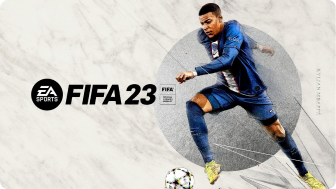
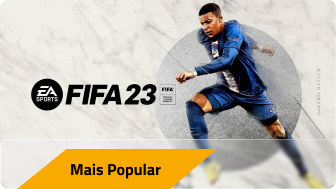
adicionado o media queire no desktop

Changed region(s): [[0.0298, 0.7143, 0.9821, 1.0], [0.9821, 0.7672, 1.0, 0.7937]]

diff --git a/css/style.css b/css/style.css
@@ -2,12 +2,12 @@
 /* Titiluim web */
 @font-face {
     font-family:titiliumweb-black;
-    src: url(../assets/fonts/Titillium_Web\ \(2\)/Titillium_Web/titiliumweb-black);
+    src: url(../assets/fonts/Titillium_Web/TitilliumWeb-Black.ttf);
 }
 
 @font-face {
     font-family: titiliumweb-bold;
-    src: url(../assets/fonts/Titillium_Web\ \(2\)/TitilliumWeb-Bold.ttf);
+    src: url(../assets/fonts/Titillium_Web/TitilliumWeb-Bold.ttf);
 }
 /* inter */
     @font-face {
@@ -31,7 +31,7 @@ body{
     margin: 0% auto;
 }
 
-/* mobile firts */
+/* MOBILE FIRST */
 /* header */
 header {
     height: 60px;
@@ -166,7 +166,7 @@ main{
 }
 
 .banner h1{
-    font-family: titiliumweb-bold;
+    font-family: titiliumweb-black;
     font-size: 40px;
     text-shadow: 0 0 7px #fd4255;
     
@@ -175,7 +175,7 @@ main{
     width: 171px;
     height: 40px;
 
-    font-family: titiliumweb-bold;
+    font-family:titiliumweb-bold;
     font-size: 24px;
     color: black;
     text-decoration:none;
@@ -197,52 +197,73 @@ main{
 }
 
 /* SESSAO CARDS */
-main .sessao-card{
+main .sessao-cards{
     width: 100%;
     height: 588px;
     background-color: #1B1426;
 
     display: flex;
     flex-direction: column;
-    justify-content: space-evenly;
+   justify-content: space-evenly; 
     align-items: center;
 }
 
-.sessao-card .box-glass{
-    width: 335px;
+/* tablets >=768px*/
+@media screen and (min-width: 768px){
+
+}
+
+/* Desktop >=1200px*/
+@media screen and (min-width: 1200px){
+    .layout-grid {
+        width: 100%;
+        max-width: 1200px;
+
+        border: 3px dotted yellowgreen;
+    }
+}
+
+/* header */
+header {
+    position: static;
+    height: 140px;
+}
+
+header .menu-hamburguer,
+header .tres-pontos img,
+header .header-bottom nav .phone,
+header .header-bottom nav .email,
+header .header-bottom nav .midias-sociais{
+    display: none;
+}
+
+header .header-bottom img .logo {
+    width:200px;
+}
+ 
+header .header-bottom nav{
+    position: static;
+    width: 440px;
     height: 50px;
-    border: 1px solid #ffffff;
-    border-radius:  8px;
-     background-image: linear-gradient(to right bottom, rgba(255, 255, 255, 0.6), rgba(255, 255, 255, 0.1)); 
-    backdrop-filter: blur(4px);
+    flex-direction: row;
+    background-color: red;
 
 
-   position: relative;
-   top: -54px;
-    display: flex;
-    justify-content: center;
-    align-items: center;
-    
 }
 
-.sessao-card .box-glass .botao-populares{
-    width: 200px;
-    height: 40px;
-    background-color: #F9AA01;
-    
-    position: relative;
-    left: -30px;
-    display: flex;
-    justify-content: center;
-    align-items: center;
-    
+header .header-bottom .menu-usuarios{
+    position: static;
+    flex-direction: row;
+    width: 180px;
+    height: 50px;
+    background-color: transparent;
 }
 
-.sessao-card .box-glass .botao-populares a{
-    font-family: titiliumweb-bold;
-    font-size: 16px;
-    color: black;
-    text-decoration-line: none;
-    
 
+/* main */
+main{
+    margin-top: 0%;
 }
+
+
+

diff --git a/index.html b/index.html
@@ -111,28 +111,26 @@
     <main>
         <!-- BANNER -->
         <section class="banner">
-            <h1>liga gamers</h1>
+            <h1>Liga Gamers</h1>
             <a href="" class="botao-sobre">sobre</a>
         </section>
 
-        <!-- CARDS POPULARES-->
+        <!-- CARDS JOGOS-->
 
-        <div class="sessao-card">
-            <div> <img src="assets/imagens/Card-FIFA.png"
-             alt=" primeira card  com texto fifa 23 e ao lado uma imagem de um jogador de futebol ">
-            <div class="box-glass"> <div class="botao-populares"> <a href=""> mais popular</a></div> </div>
-        </div>
+        <section class="sessao-cards">
+                <img src="assets/imagens/card-fifa.png" alt="imagem do jogo fifa">
+                <img src="assets/imagens/card-cstrike.png" alt="imagem do jogo countier strike">
+            
+        </section>
 
+        <!-- PROGAMER -->
+        <section class="sessao-progamer">
 
-            <div> <img src="assets/imagens/Card-CS GO.png" alt="segunda card com uma imagem de dois soldados">
-            <div class="box-glass"> <div class="botao-populares"> <a href=""> último jogo</a> </div> </div>
-            </div>
-
-        </div>
+        </section>
 
     </main>
 
-    <footer> </footer>
+    <footer> Todos os DIreitos Reservados</footer>
 
     <script>
         function mostrarMenu() {
